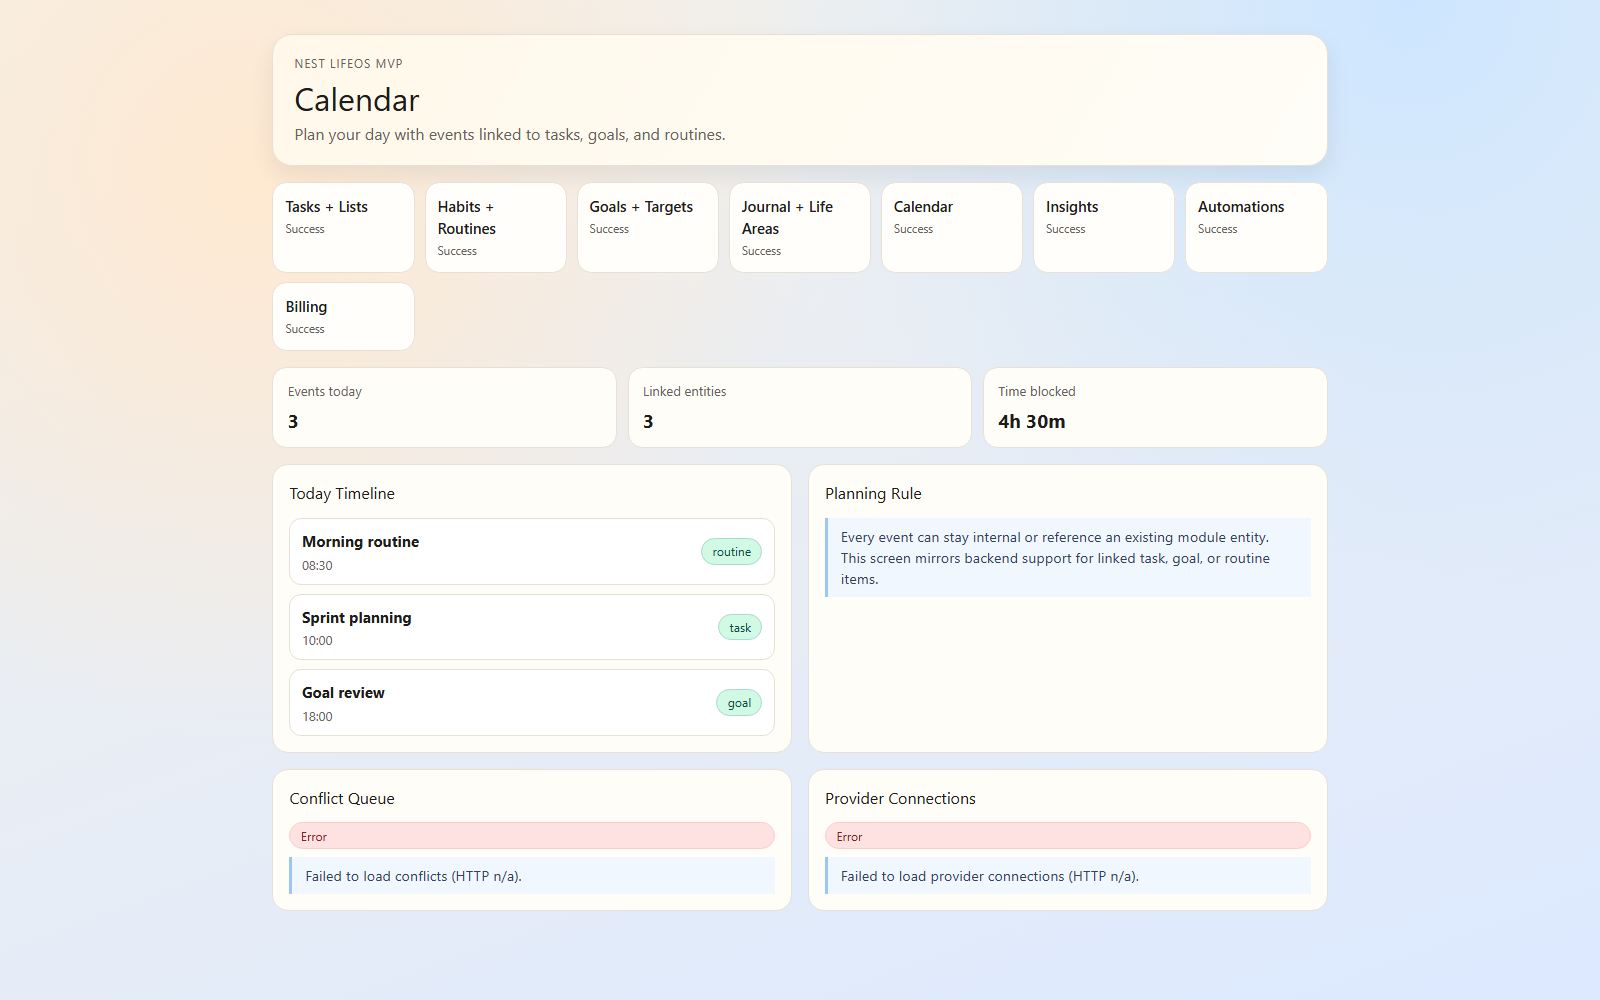
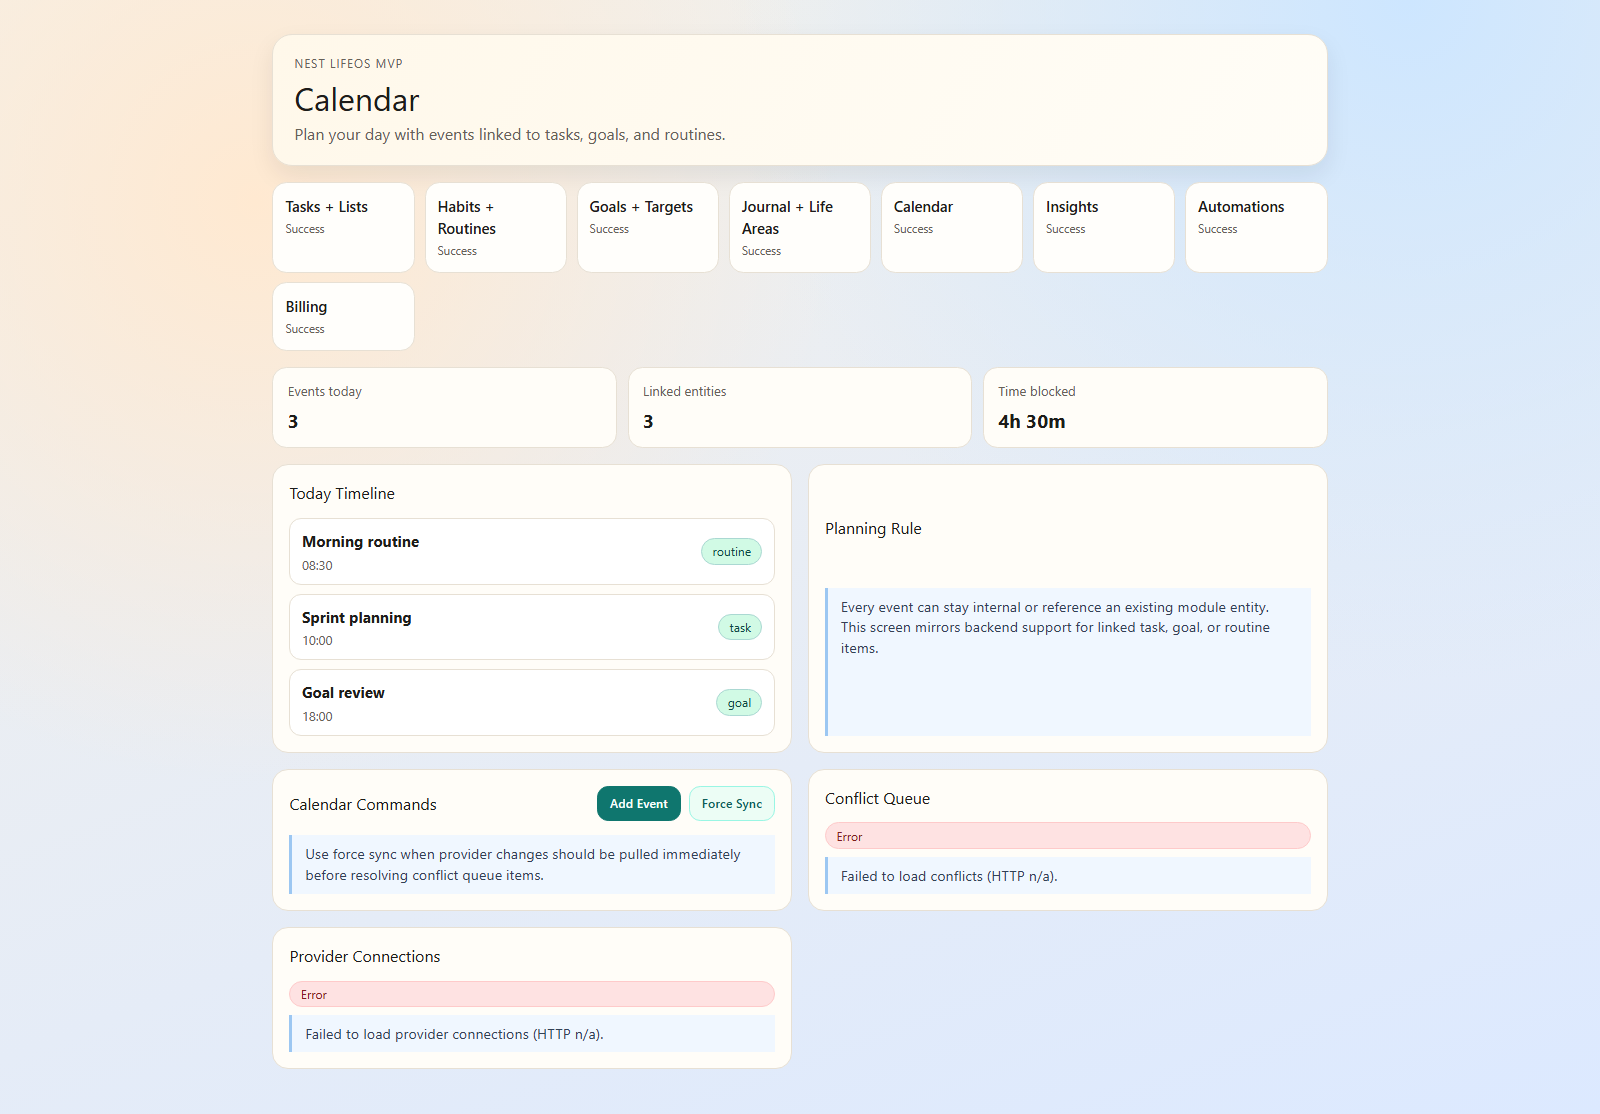
feat(web): apply legacy UX visual parity fixes wave 1

diff --git a/apps/web/src/app/billing/page.tsx b/apps/web/src/app/billing/page.tsx
@@ -103,16 +103,16 @@ export default function BillingPage() {
         <div className="panel-content">
           <p className="callout">Run baseline lifecycle transitions for plan management.</p>
           <div className="row-inline">
-            <button className="pill-link" onClick={() => runAction("trial")} disabled={busyAction !== null}>
+            <button className="btn-primary" onClick={() => runAction("trial")} disabled={busyAction !== null}>
               {busyAction === "trial" ? "Starting..." : "Start Trial (plus)"}
             </button>
-            <button className="pill-link" onClick={() => runAction("activate")} disabled={busyAction !== null}>
+            <button className="btn-secondary" onClick={() => runAction("activate")} disabled={busyAction !== null}>
               {busyAction === "activate" ? "Activating..." : "Activate"}
             </button>
-            <button className="pill-link" onClick={() => runAction("past_due")} disabled={busyAction !== null}>
+            <button className="btn-secondary" onClick={() => runAction("past_due")} disabled={busyAction !== null}>
               {busyAction === "past_due" ? "Marking..." : "Mark Past Due"}
             </button>
-            <button className="pill-link" onClick={() => runAction("cancel")} disabled={busyAction !== null}>
+            <button className="btn-secondary" onClick={() => runAction("cancel")} disabled={busyAction !== null}>
               {busyAction === "cancel" ? "Canceling..." : "Cancel"}
             </button>
           </div>

diff --git a/apps/web/src/components/provider-connections-card.tsx b/apps/web/src/components/provider-connections-card.tsx
@@ -164,7 +164,7 @@ export function ProviderConnectionsCard() {
 
               return (
                 <li className="list-row" key={connection.provider}>
-                  <div>
+                  <div className="panel-content">
                     <strong>{providerLabels[connection.provider] ?? connection.provider}</strong>
                     <p>Status: {connection.status}</p>
                     <p className="mono-note">
@@ -179,7 +179,7 @@ export function ProviderConnectionsCard() {
                   <div className="row-inline">
                     <button
                       type="button"
-                      className="pill-link"
+                      className={connection.status === "connected" ? "btn-secondary" : "btn-primary"}
                       onClick={() => void connectProvider(connection.provider)}
                       disabled={busyProvider === connection.provider}
                     >
@@ -187,7 +187,7 @@ export function ProviderConnectionsCard() {
                     </button>
                     <button
                       type="button"
-                      className="pill-link"
+                      className="btn-secondary"
                       onClick={() => void revokeProvider(connection.provider)}
                       disabled={busyProvider === connection.provider}
                     >

diff --git a/apps/web/src/app/globals.css b/apps/web/src/app/globals.css
@@ -138,11 +138,26 @@ body {
   border-radius: 1rem;
   background: var(--panel);
   padding: 1rem;
+  display: grid;
+  gap: 0.8rem;
+}
+
+.panel-header {
+  display: flex;
+  align-items: center;
+  justify-content: space-between;
+  gap: 0.7rem;
 }
 
 .panel h2 {
-  margin: 0 0 0.8rem;
+  margin: 0;
   font-size: 1rem;
+}
+
+.panel-actions {
+  display: inline-flex;
+  align-items: center;
+  gap: 0.5rem;
 }
 
 .panel-content {
@@ -203,6 +218,30 @@ body {
   padding: 0.2rem 0.65rem;
   font-size: 0.76rem;
   font-family: var(--font-mono);
+}
+
+.btn-primary,
+.btn-secondary {
+  border-radius: 0.7rem;
+  border: 1px solid #0f766e;
+  background: #0f766e;
+  color: #f8fffd;
+  padding: 0.45rem 0.75rem;
+  font-size: 0.78rem;
+  font-weight: 600;
+  cursor: pointer;
+}
+
+.btn-secondary {
+  background: #ecfdf5;
+  color: #115e59;
+  border-color: #99f6e4;
+}
+
+.btn-primary:disabled,
+.btn-secondary:disabled {
+  opacity: 0.6;
+  cursor: not-allowed;
 }
 
 .state-loading {

diff --git a/apps/web/src/components/conflict-queue-card.tsx b/apps/web/src/components/conflict-queue-card.tsx
@@ -85,7 +85,7 @@ export function ConflictQueueCard() {
                 <div className="row-inline">
                   <button
                     type="button"
-                    className="pill-link"
+                    className="btn-secondary"
                     onClick={() => void resolveConflict(conflict.id, "accept")}
                     disabled={busyId === conflict.id}
                   >
@@ -93,7 +93,7 @@ export function ConflictQueueCard() {
                   </button>
                   <button
                     type="button"
-                    className="pill-link"
+                    className="btn-primary"
                     onClick={() => void resolveConflict(conflict.id, "override")}
                     disabled={busyId === conflict.id}
                   >

diff --git a/apps/web/src/app/calendar/page.tsx b/apps/web/src/app/calendar/page.tsx
@@ -37,6 +37,21 @@ export default function CalendarPage() {
         </p>
       </Panel>
 
+      <Panel
+        title="Calendar Commands"
+        actions={(
+          <>
+            <button type="button" className="btn-primary">Add Event</button>
+            <button type="button" className="btn-secondary">Force Sync</button>
+          </>
+        )}
+      >
+        <p className="callout">
+          Use force sync when provider changes should be pulled immediately
+          before resolving conflict queue items.
+        </p>
+      </Panel>
+
       <ConflictQueueCard />
       <ProviderConnectionsCard />
     </WorkspaceShell>

diff --git a/apps/web/src/components/workspace-shell.tsx b/apps/web/src/components/workspace-shell.tsx
@@ -50,13 +50,17 @@ export function MetricCard({ label, value }: MetricCardProps) {
 
 type PanelProps = {
   title: string;
+  actions?: ReactNode;
   children: ReactNode;
 };
 
-export function Panel({ title, children }: PanelProps) {
+export function Panel({ title, actions, children }: PanelProps) {
   return (
     <section className="panel">
-      <h2>{title}</h2>
+      <div className="panel-header">
+        <h2>{title}</h2>
+        {actions ? <div className="panel-actions">{actions}</div> : null}
+      </div>
       <div className="panel-content">{children}</div>
     </section>
   );

diff --git a/apps/web/src/app/insights/page.tsx b/apps/web/src/app/insights/page.tsx
@@ -155,7 +155,15 @@ export default function InsightsPage() {
         </ul>
       </Panel>
 
-      <Panel title="Weekly Trends (6 buckets)">
+      <Panel
+        title="Weekly Trends (6 buckets)"
+        actions={(
+          <>
+            <button type="button" className="btn-primary">Refresh Trends</button>
+            <button type="button" className="btn-secondary">Export Snapshot</button>
+          </>
+        )}
+      >
         <ul className="list">
           {trends.map((trend) => (
             <li className="list-row" key={trend.module}>

diff --git a/apps/web/src/app/tasks/page.tsx b/apps/web/src/app/tasks/page.tsx
@@ -28,7 +28,15 @@ export default function TasksPage() {
         </ul>
       </Panel>
 
-      <Panel title="Priority Queue">
+      <Panel
+        title="Priority Queue"
+        actions={(
+          <>
+            <button type="button" className="btn-primary">Add Task</button>
+            <button type="button" className="btn-secondary">Add List</button>
+          </>
+        )}
+      >
         <ul className="list">
           {tasksSnapshot.items.map((task) => (
             <li className="list-row" key={task.title}>

diff --git a/apps/web/src/app/automations/page.tsx b/apps/web/src/app/automations/page.tsx
@@ -230,7 +230,7 @@ export default function AutomationsPage() {
               </option>
             ))}
           </select>
-          <button className="pill-link" onClick={createRule} disabled={isCreating || name.trim().length === 0}>
+          <button className="btn-primary" onClick={createRule} disabled={isCreating || name.trim().length === 0}>
             {isCreating ? "Creating..." : "Create Rule"}
           </button>
         </div>

diff --git a/.codex/context/TASK_BOARD.md b/.codex/context/TASK_BOARD.md
@@ -196,7 +196,7 @@ Last updated: 2026-03-21
     - Captured responsive follow-up inputs for `NEST-106`.
 
 - [ ] NEST-106 Execute legacy UX visual parity fixes and re-run UX evidence gate
-  - Status: BACKLOG
+  - Status: IN_PROGRESS
   - Owner: Execution Agent
   - Depends on: NEST-103, NEST-104, NEST-105
   - Done when:
@@ -204,6 +204,20 @@ Last updated: 2026-03-21
     - legacy UX-heavy tasks pass source/parity/state/responsive/a11y evidence
       gates,
     - board pass/fail records are updated with closure evidence.
+  - Notes:
+    - Web parity fixes (wave 1) applied across legacy surfaces:
+      `apps/web/src/app/tasks/page.tsx`,
+      `apps/web/src/app/calendar/page.tsx`,
+      `apps/web/src/app/insights/page.tsx`,
+      `apps/web/src/app/automations/page.tsx`,
+      `apps/web/src/app/billing/page.tsx`,
+      `apps/web/src/components/conflict-queue-card.tsx`,
+      `apps/web/src/components/provider-connections-card.tsx`,
+      `apps/web/src/components/workspace-shell.tsx`,
+      `apps/web/src/app/globals.css`.
+    - Refreshed web parity captures for `NEST-021`, `NEST-037`, `NEST-041`,
+      `NEST-042`, `NEST-050`, `NEST-058`, `NEST-068` in
+      `docs/ux_parity_evidence/2026-03-21/web/*.png`.
 
 - [ ] NEST-109 Deliver localization foundation (en/pl) across API, web, and mobile
   - Status: BACKLOG

diff --git a/.codex/context/PROJECT_STATE.md b/.codex/context/PROJECT_STATE.md
@@ -291,6 +291,9 @@ Last updated: 2026-03-21
   `docs/ux_parity_evidence/2026-03-21/capture-manifest.json`,
   `docs/ux_parity_evidence/2026-03-21/web/*.png`,
   `docs/ux_parity_evidence/2026-03-21/mobile/*.png`)
+- `NEST-106` in progress: web parity fixes (wave 1) are implemented with
+  stronger action-entry CTAs, improved calendar integration hierarchy, and
+  refreshed web parity captures for legacy UX-heavy tasks
 - `NEST-031` completed: post-MVP integration contract versioning strategy
   documented with compatibility, migration, rollback, and deprecation rules and
   linked from integration docs
